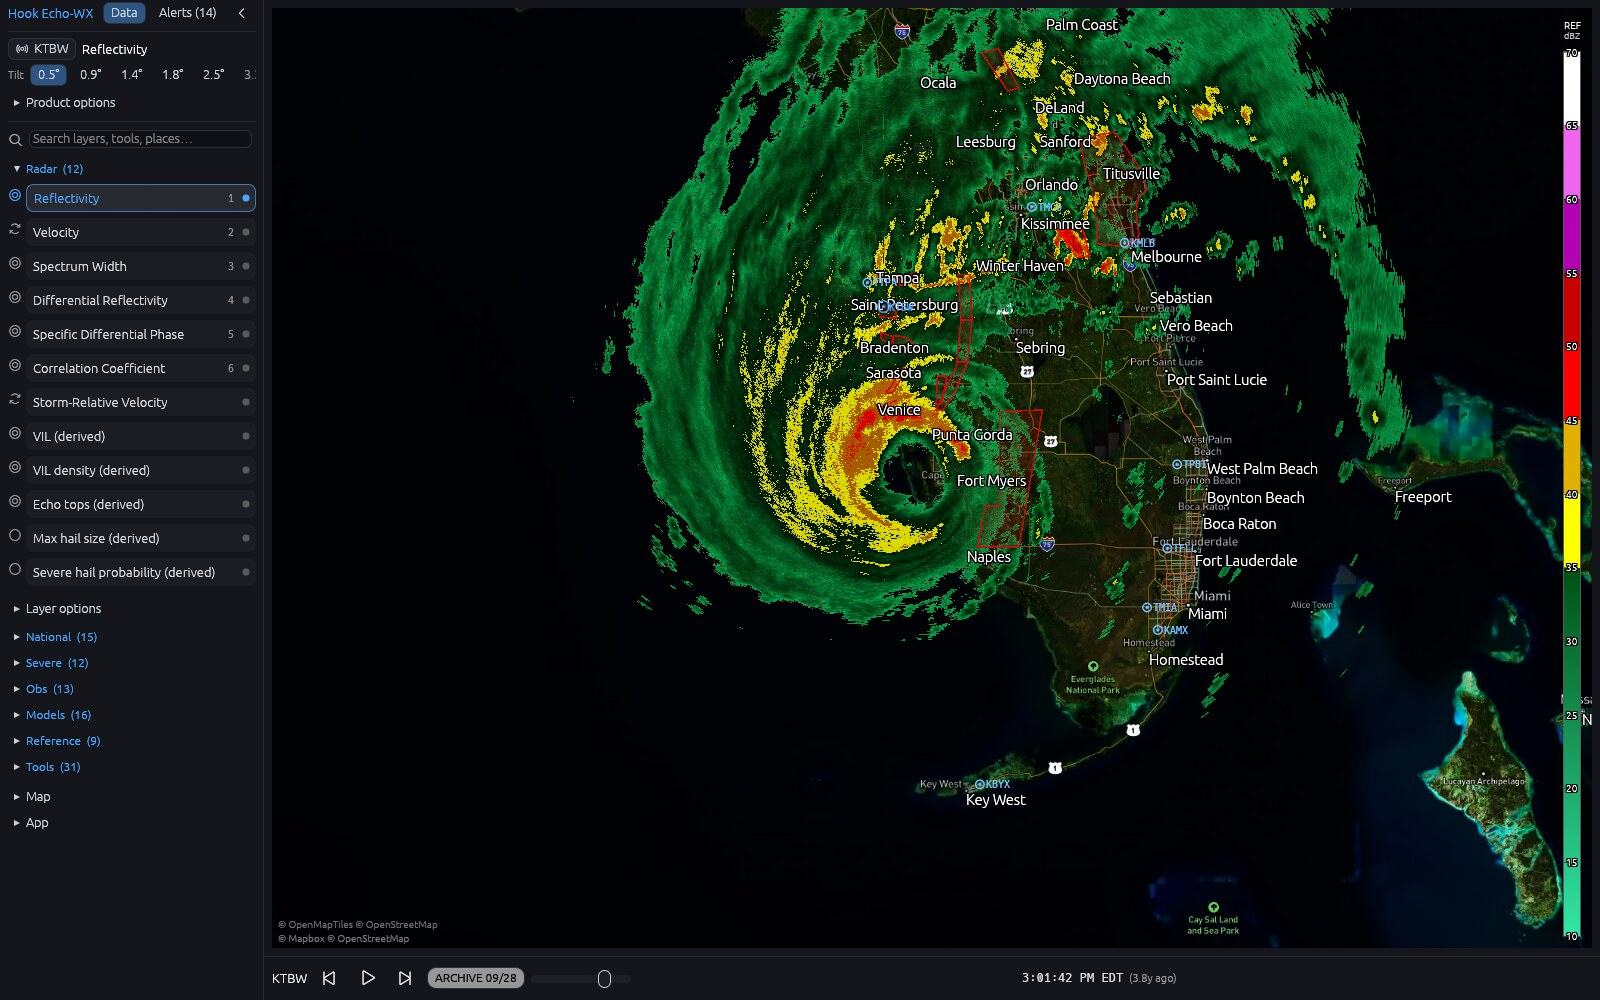
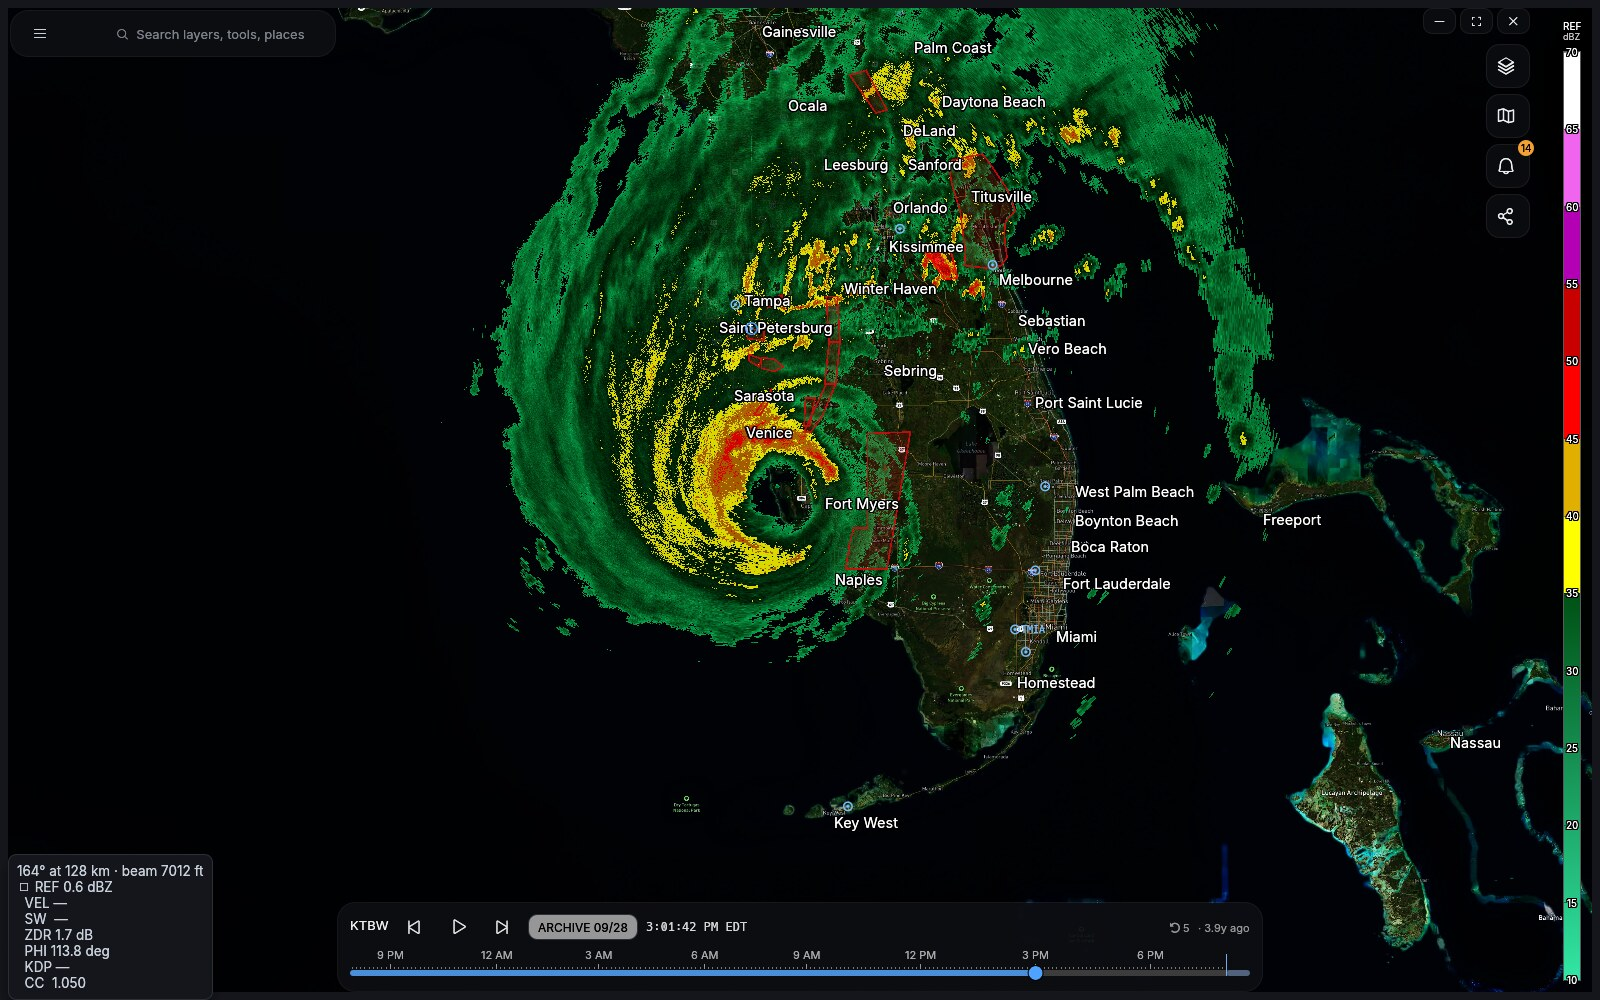
chore(brand): reshoot the screenshots on the new chrome
Every committed shot predates the R18 redesign: they show the docked sidebar
and bottom panel that no longer exist, under the old name and logo. This is the
single reshoot the release plan holds until beta, so the first public look at
HookEcho is the app people will actually download.

Driving the shoot against the new chrome turned up three things that had to be
fixed before the frames were worth keeping:

- Every palette action leaves the layers panel open over the left third of the
  map, so a shot about a layer was a shot about a panel. `palette` now closes it
  through the panel's own button — the `l` key is a toggle, and after a palette
  action the panel's state is not knowable, so a toggle is a coin flip. The two
  scenes that do want the panel open never go through `palette`.
- The four-pane scene's per-pane clicks were still aimed at the old strip
  coordinates, so it shot two panes of the wrong moment under a panel that
  covered the other two.
- The pointer parks in a corner before every capture; the readout card follows
  it and was landing in the middle of the frame.

Two app fixes fall out of the same pass: the field legend (VIL density, QPE,
MESH) was drawn half under the floating search pill, and the two one-time hint
toasts had a run of literal spaces in the middle of their text from a bad wrap.
The shoot profile now marks both hints as seen, since a first-run hint in a
screenshot is a screenshot of a first run.
[…]

diff --git a/crates/hookecho/src/app.rs b/crates/hookecho/src/app.rs
@@ -7101,7 +7101,8 @@ impl HookEchoApp {
                 if n > 1 {
                     self.hint(
                         "panes",
-                        "Each pane keeps its own radar, product and tilt \u{2014}                          turn on Link pane cameras to pan them together",
+                        "Each pane keeps its own radar, product and tilt \u{2014} turn \
+                         on Link pane cameras to pan them together",
                     );
                 }
             }
@@ -12593,7 +12594,12 @@ impl HookEchoApp {
                     dl,
                 );
             }
-            let mut y = 0.0;
+            // The field cards stack down the pane's top-left corner, which in the full-overlay
+            // chrome is where the search pill floats — the first card was drawn half under it.
+            // Every pane ducks by the same amount rather than only the top row: in a 2x2 grid the
+            // lower cards then sit a little further from their pane's edge, which nobody notices,
+            // and the alternative is a rect comparison that has to know about window insets.
+            let mut y = 48.0;
             // Whichever gridded layer the user actually sees on top — the last enabled one in
             // paint order — gets its scale keyed underneath. Without this, MESH/QPE/VIL and the
             // categorical classifications were unlabeled color.

diff --git a/crates/hookecho/src/app/chrome/overlay.rs b/crates/hookecho/src/app/chrome/overlay.rs
@@ -66,7 +66,8 @@ impl HookEchoApp {
         crate::prof_scope!("panel");
         self.hint(
             "info_links",
-            "Rows with an \u{24d8} explain themselves \u{2014} click it for what the              abbreviation means",
+            "Rows with an \u{24d8} explain themselves \u{2014} click it for what the \
+             abbreviation means",
         );
         let accent = crate::theme::accent(self.settings.theme);
         let entries = self.palette_entries();
